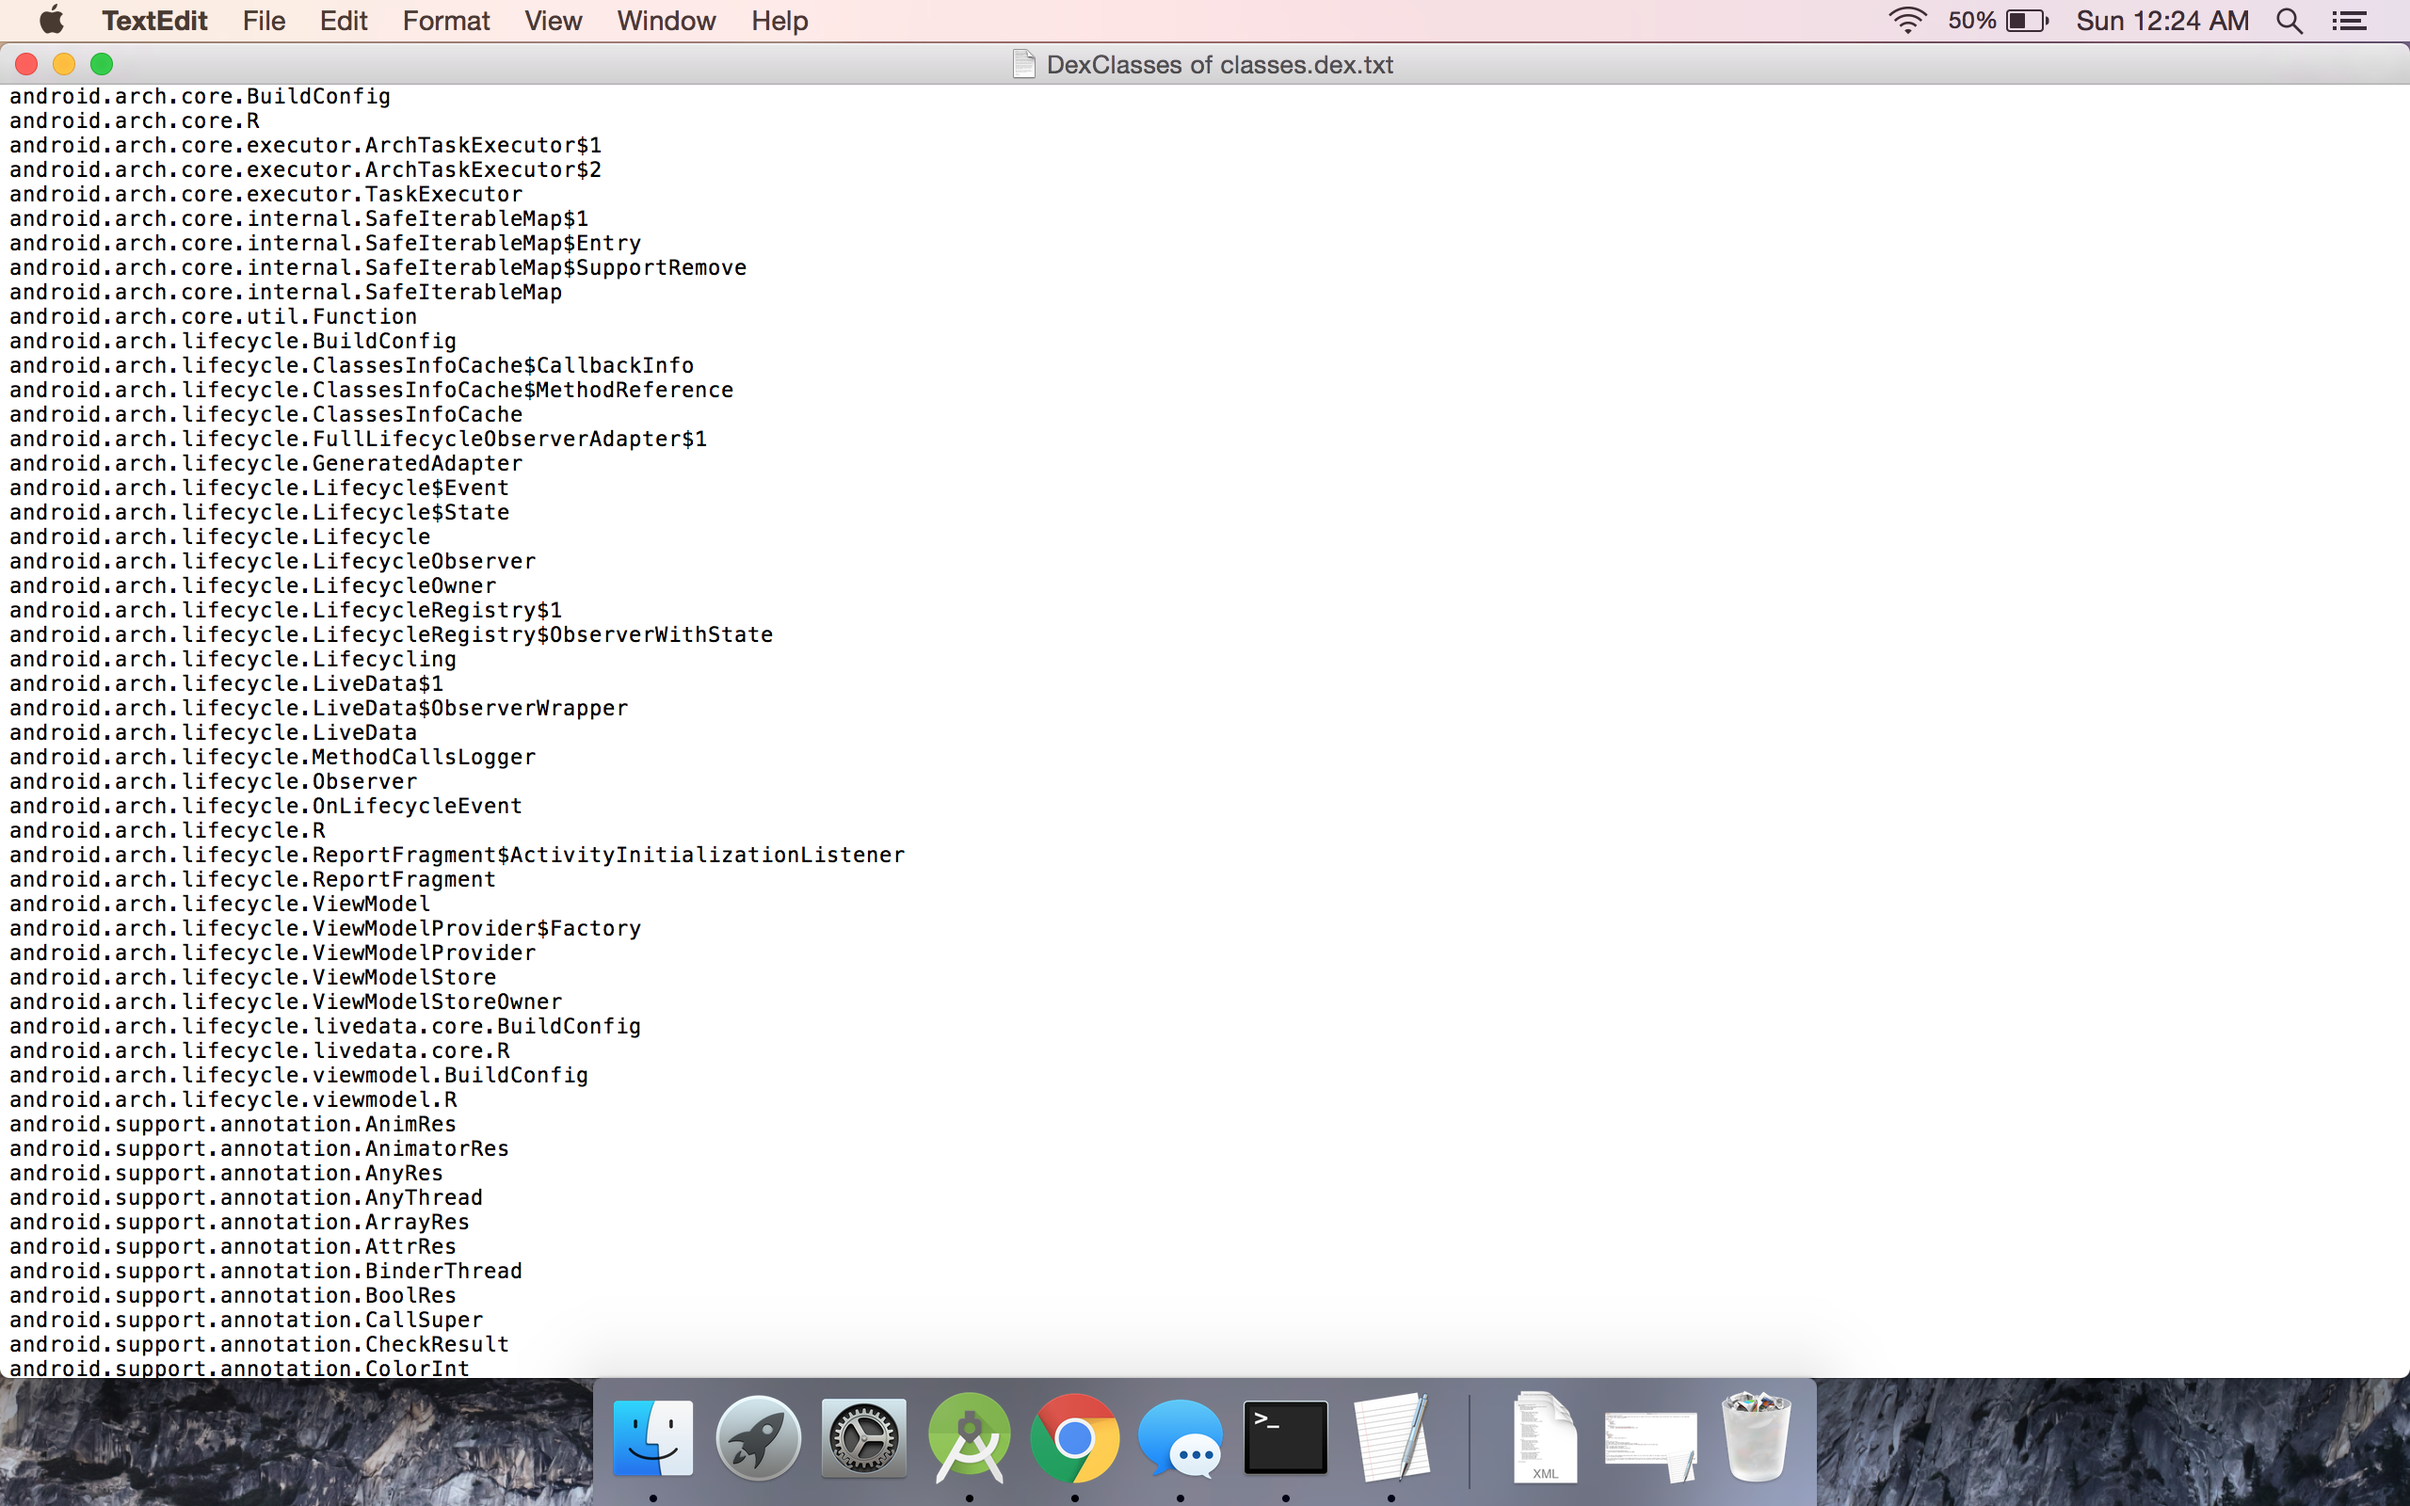
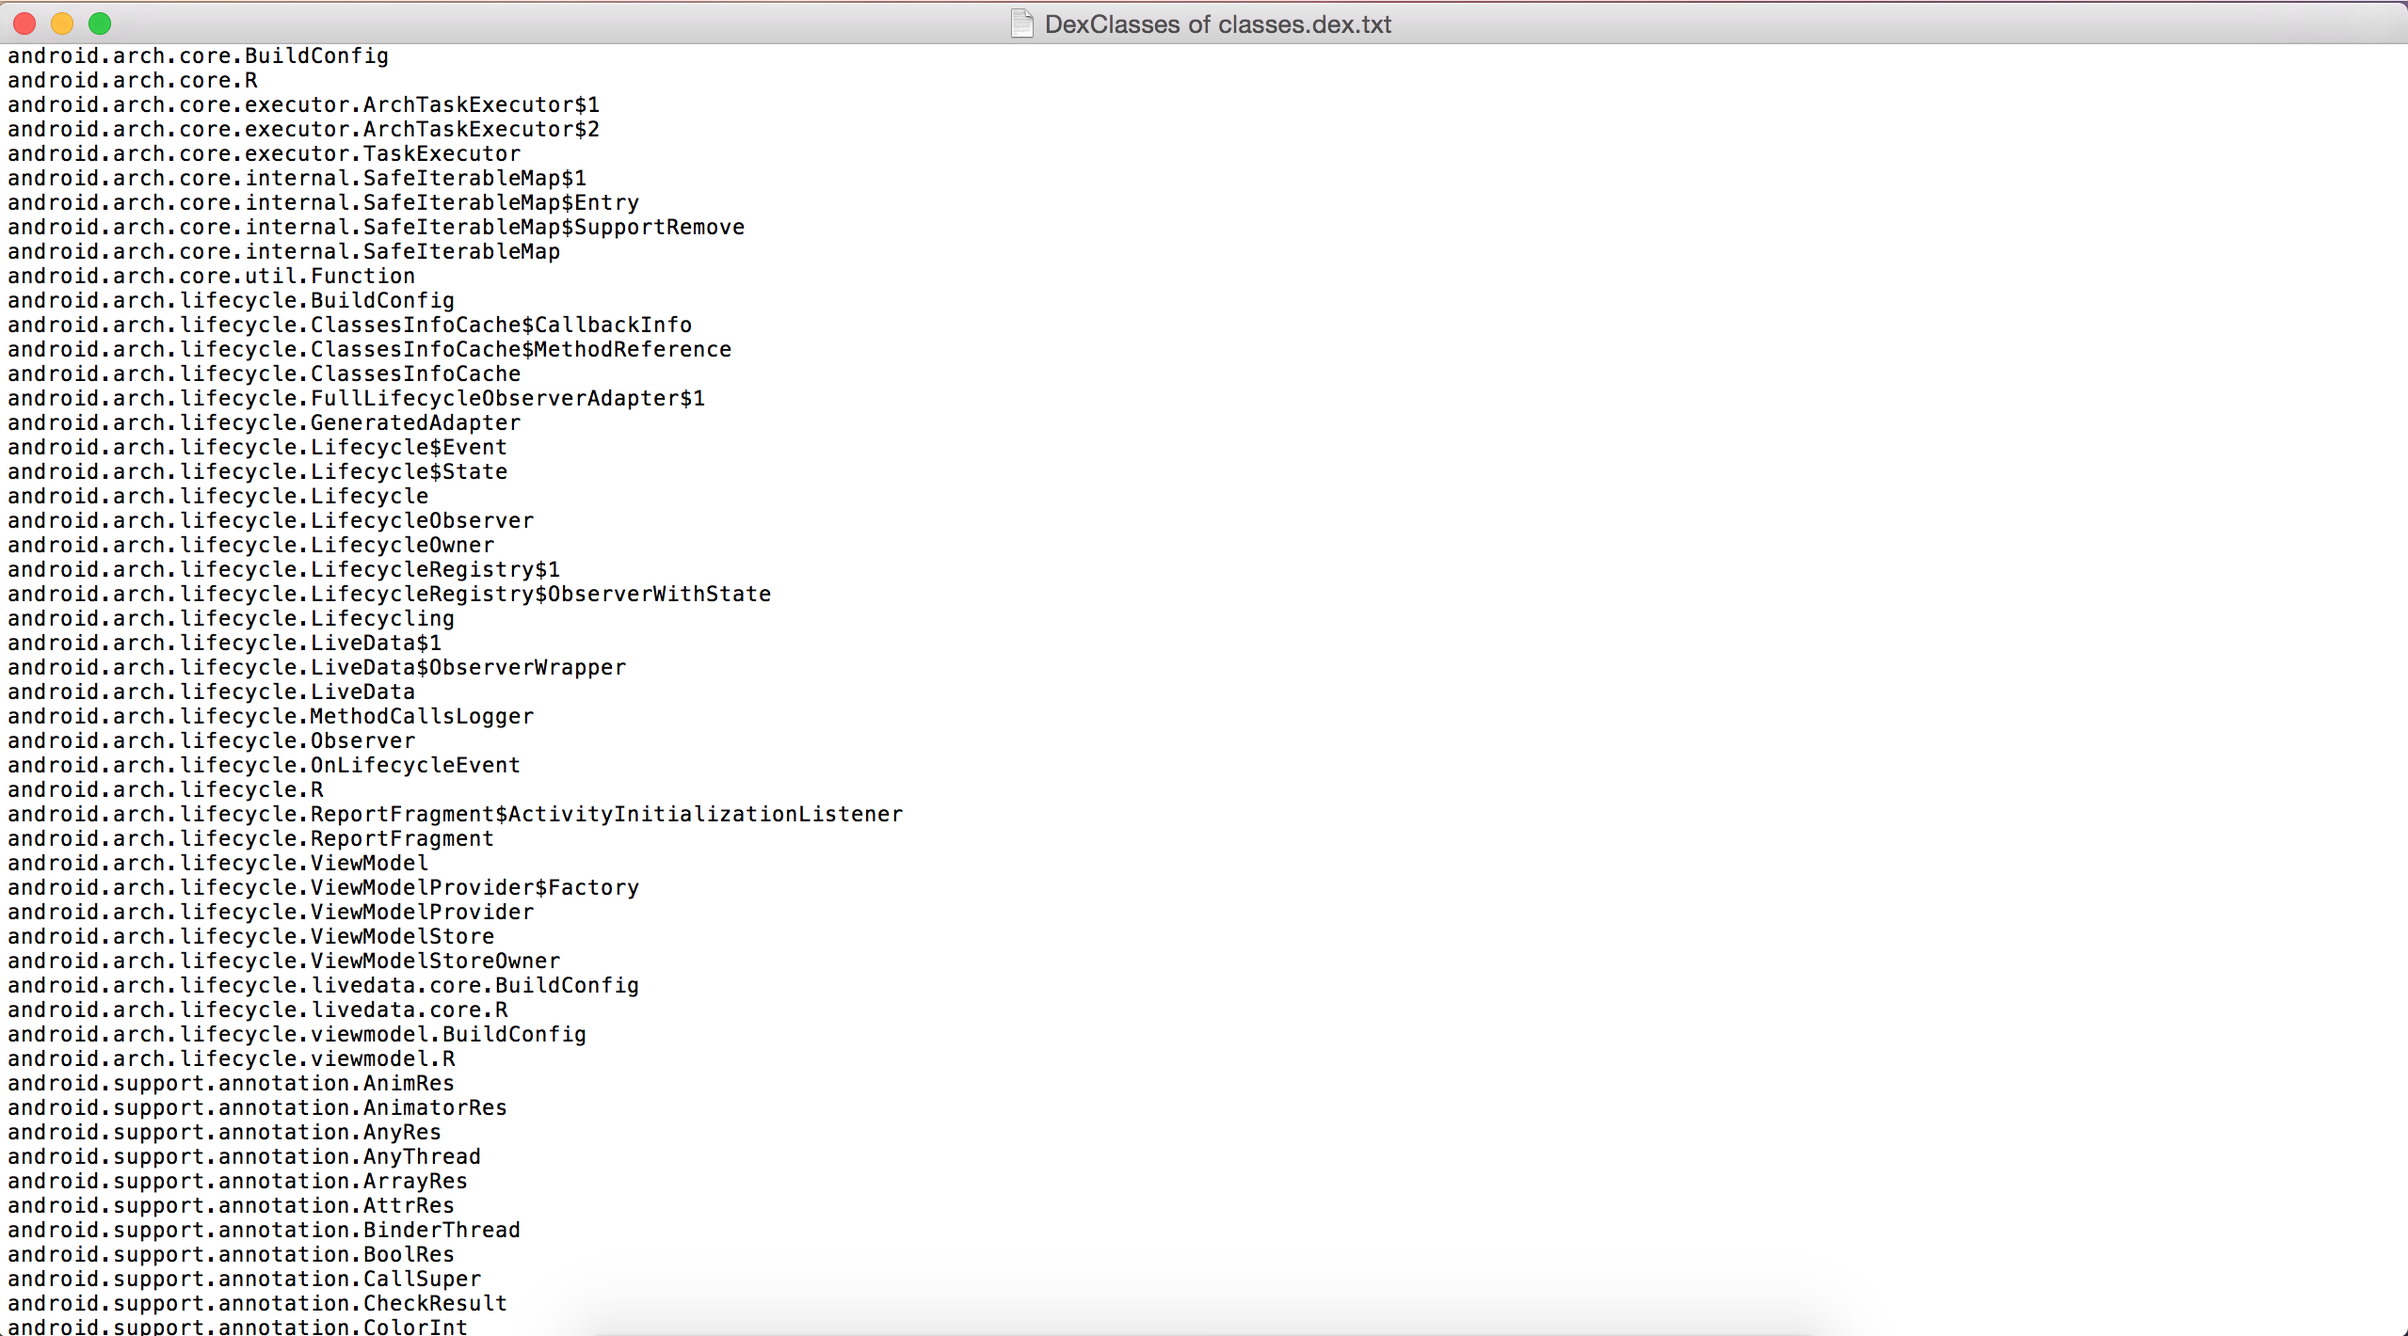
feat: updated Readme

Changed region(s): [[0.0, 0.0, 1.0, 1.0]]

diff --git a/README.md b/README.md
@@ -20,16 +20,16 @@ For validation, Dexter consist of a gradle plugin which gives you an insight to 
 In your project level <b>build.gradle</b>:
 <pre>
 buildscript {
- repositories {
+
+repositories {
     google()
     jcenter()
     maven { url 'https://www.jitpack.io' }
- }
-
- dependencies {
-   classpath 'com.android.tools.build:gradle:3.1.3'
-   classpath 'com.github.bobblekeyboard.dexter:dexter:1.0.6'
- }
+}
+dependencies {
+  classpath 'com.android.tools.build:gradle:3.1.3'
+  classpath 'com.github.bobblekeyboard.dexter:dexter:1.0.6’
+}
 
 }
 </pre>
@@ -64,6 +64,24 @@ Run this task by <code>./gradlew validationTask</code> command. You will see the
 
 Now go to your project root directory and <b>app/build/outputs</b> you will see a directory created by name of <b>dexter</b>. Here you can find a text file by name of <b>DexClasses of classes.dex</b> which corresponds to your primary dex. If you open this you can see the list of classes in your primary dex where you can validate if any class has entered your primary dex or not.<br>
 
-![alt text](https://user-images.githubusercontent.com/12881364/42413901-c8063764-8247-11e8-87c8-738dd6c1f982.png)
+![alt text](https://user-images.githubusercontent.com/12881364/42414081-6598f770-824b-11e8-906e-727d94387c3c.png)
+
+You can also see the rest dex Files and there respective text files. You can open the remaining text files to have an insight in the classes entering in them.
+
+<h2>Configuring for a custom path</h2>
+<pre>
+task validationTask(type:DexterDefaultTask){
+  Dexter.configure().setApkPath("/Users/amanjeetsingh150/Desktop/app-debug.apk")
+}
+</pre>
+
+You can see the output in dexter folder as:
+![alt text](https://user-images.githubusercontent.com/12881364/42414254-0686e0cc-824f-11e8-8edc-193e6b475ae8.png)
+
+
+
+
+
+
 
 
